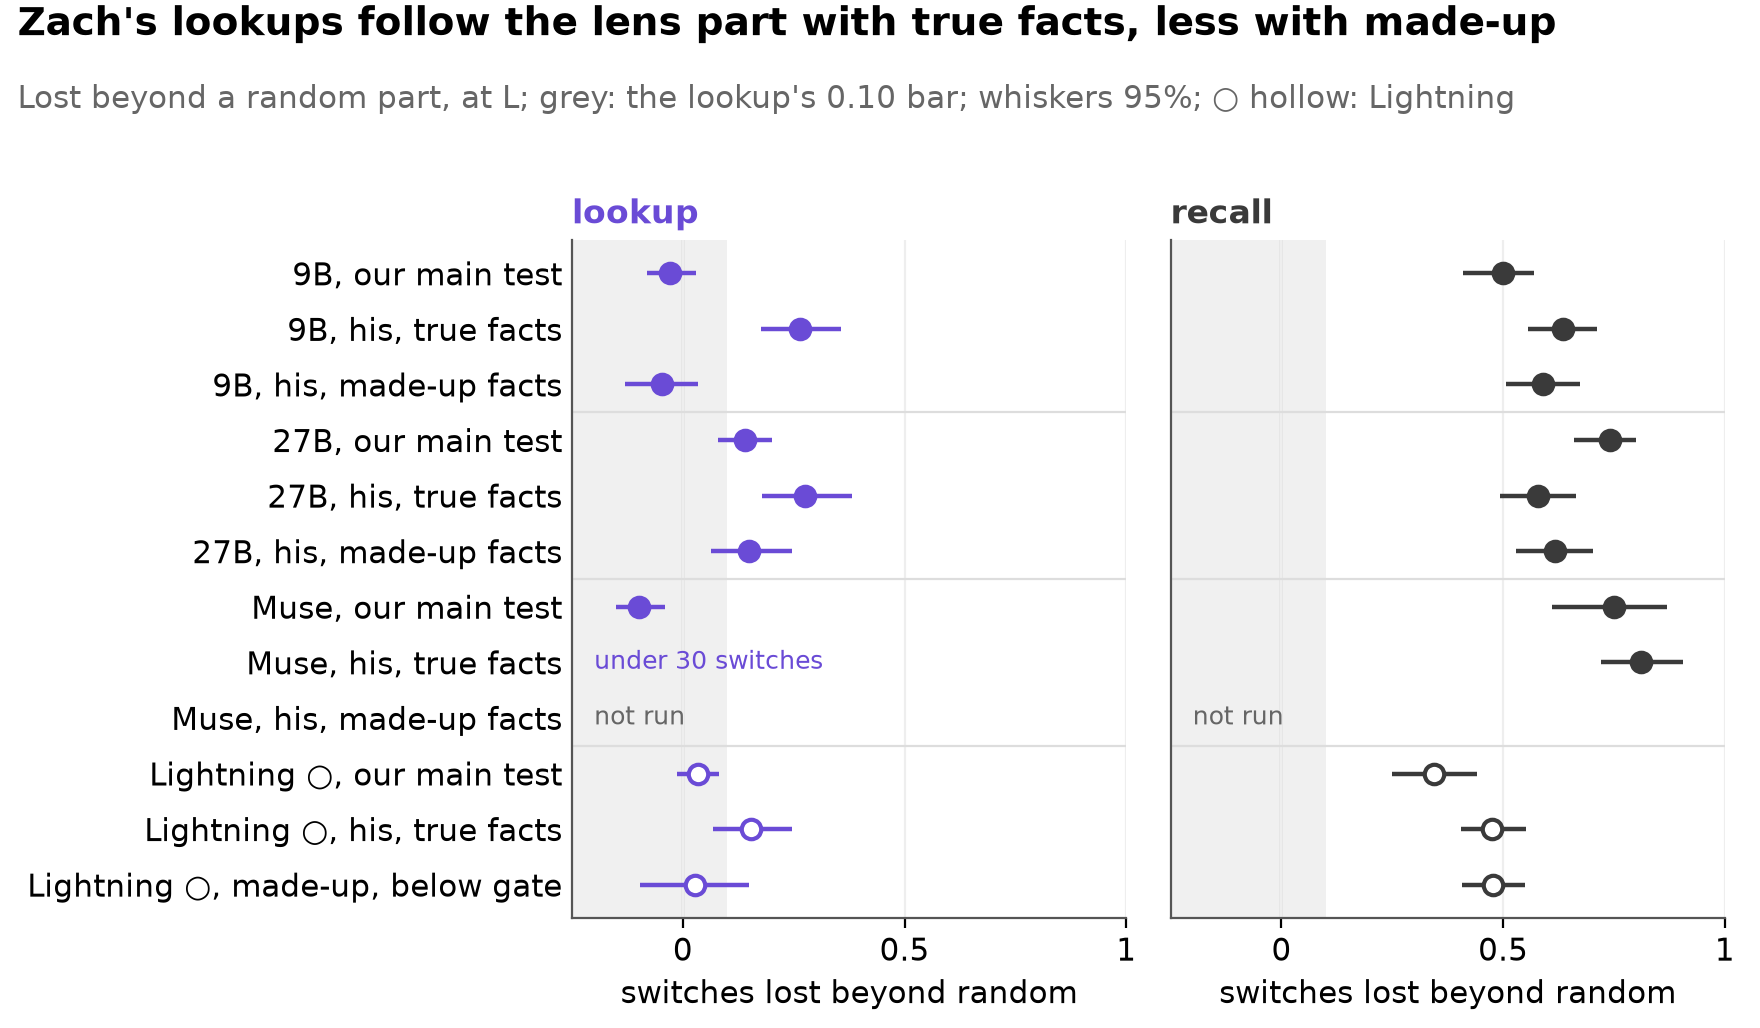
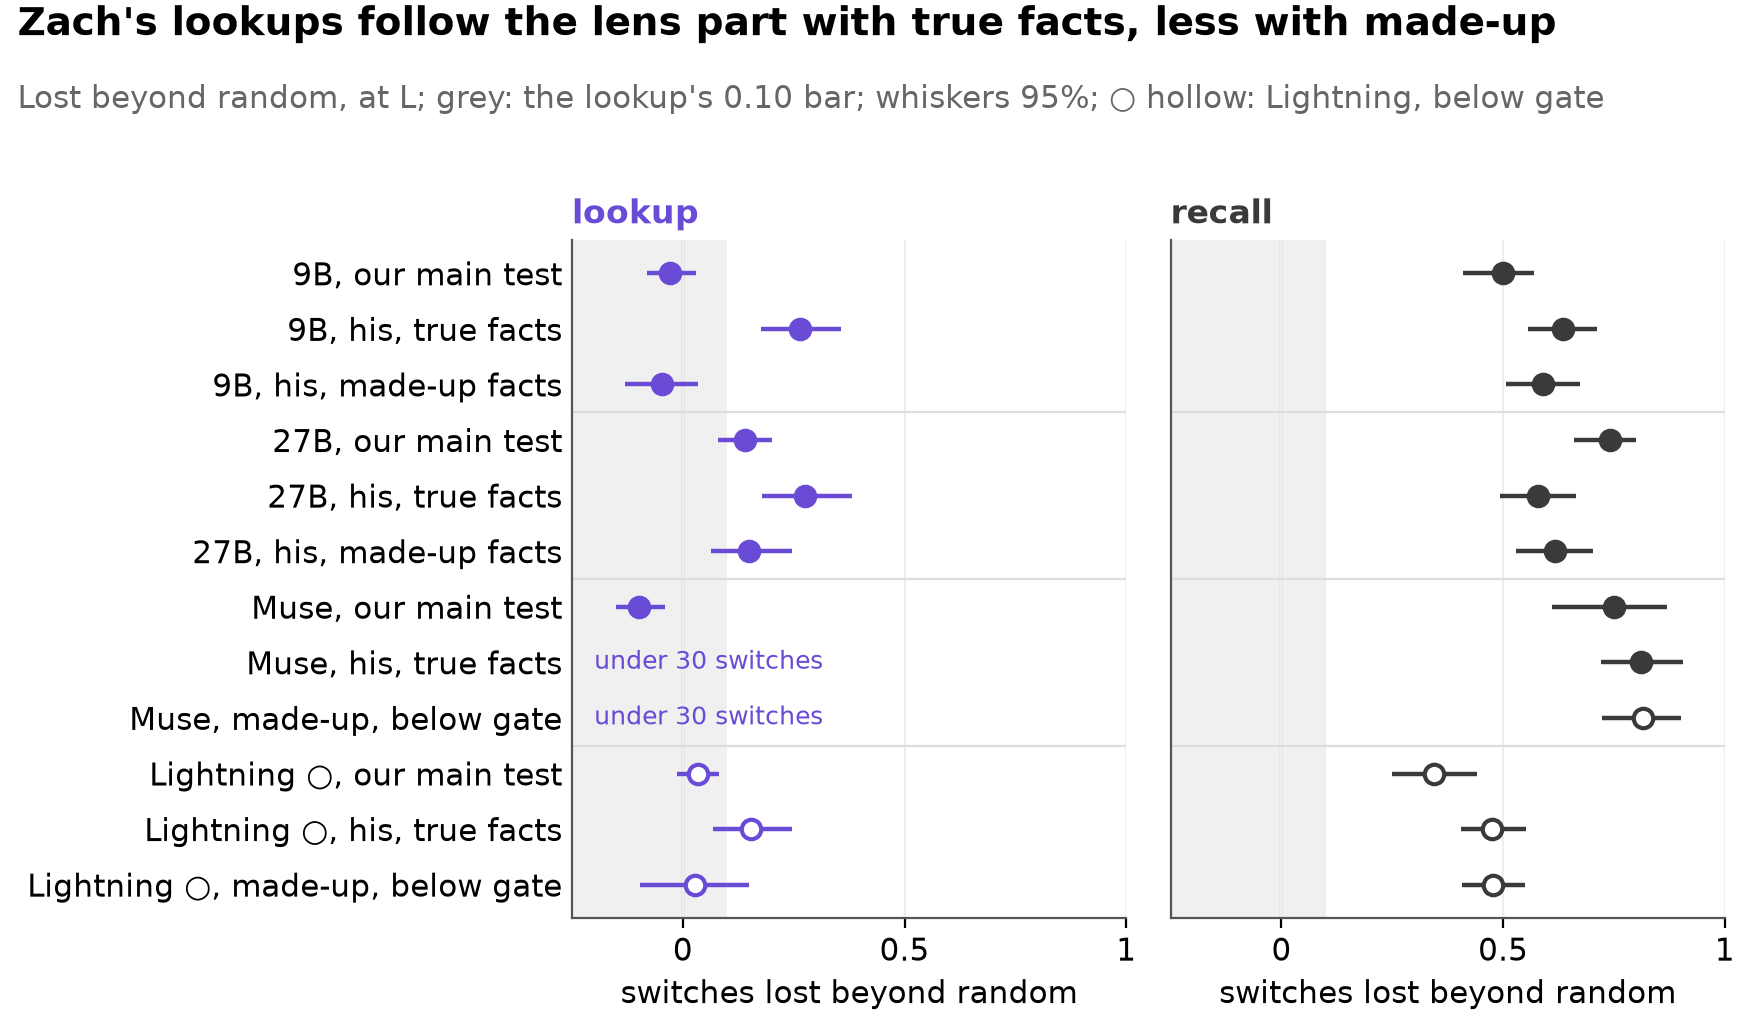
Ledger: Z1-P on Muse (744ad647) below gate, exploratory (hollow ○: lookup 0.04, recall 0.81, gap 0.77 at L26; not tested, gate 0.781 < 0.80) in the Z1 card and the ledger_zach_named figure (Muse's made-up row hollow, labelled below gate; its lookup under 30 switches)

diff --git a/scripts/ledger_figures.py b/scripts/ledger_figures.py
@@ -405,12 +405,18 @@ Z1_L = R / "x50_zach" / "x52_z1-20261029T013035Z" / "z1.json"  # Lightning's cov
 # Z1-P: Zach's named passages with made-up facts (Dan's morning brief, 29 Oct); Lightning's missed its gate
 Z1P = {"qwen3.5-9b": R / "x50_zach" / "x52_z1p-20261029T081112Z" / "z1p.json",
        "qwen3.6-27b": R / "x50_zach" / "x52_z1p-20261029T081323Z" / "z1p.json",
-       "nemotron-3.5-lightning": R / "x50_zach" / "x52_z1p-20261029T080731Z" / "z1p.json"}  # fmt: skip
+       "nemotron-3.5-lightning": R / "x50_zach" / "x52_z1p-20261029T080731Z" / "z1p.json",
+       "muse-glimmer-30b": R / "x50_zach" / "x52_z1p-20261029T094820Z" / "z1p.json"}  # fmt: skip
 
 
 def _zach_cell(path: Path, target: str, reader: str) -> dict:
     (m,) = [m for m in load(path)["models"] if m["target"] == target]
     return m["layer_results"][str(m["layers"][0])][reader]
+
+
+def _below_gate(path: Path, target: str) -> bool:
+    (m,) = [m for m in load(path)["models"] if m["target"] == target]
+    return str(m.get("status", "")).startswith("not tested")
 
 
 def zach_named(plt) -> str:
@@ -429,11 +435,12 @@ def zach_named(plt) -> str:
     h = fig.get_figheight()
     fig.subplots_adjust(left=0.325, right=0.98, top=1 - 1.2 / h, bottom=0.55 / h, wspace=0.08)
     S.title(fig, "Zach's lookups follow the lens part with true facts, less with made-up",
-            "Lost beyond a random part, at L; grey: the lookup's 0.10 bar; whiskers 95%; ○ hollow: Lightning")  # fmt: skip
+            "Lost beyond random, at L; grey: the lookup's 0.10 bar; whiskers 95%; ○ hollow: Lightning, below gate")  # fmt: skip
     labels = []
     for t in models:
         tag = SHORT[t] + (" ○" if t == lt else "")
-        labels += [f"{tag}, {lab}" if not (t == lt and k == "made") else f"{tag}, made-up, below gate" for lab, k in sets]
+        below = t in Z1P and _below_gate(Z1P[t], t)
+        labels += [f"{tag}, {lab}" if not (below and k == "made") else f"{tag}, made-up, below gate" for lab, k in sets]
     for ax, (reader, col, key, pp) in zip(axes, (("lookup", LOOKUP, "lk", "PP"), ("recall", INK, "rc", "PM")),
                                           strict=True):  # fmt: skip
         ax.set_title(reader, fontsize=12, weight="bold", loc="left", color=col)
@@ -451,8 +458,9 @@ def zach_named(plt) -> str:
                     ax.text(-0.2, y0 - j, "not run", color=S.COL["muted"], va="center", fontsize=S.LABEL_PT - 1)
                     continue
                 cell = _zach_cell(path, t, reader)
+                below = k == "made" and _below_gate(path, t)
                 if cell["valid"]:
-                    whisker(ax, y0 - j, cell["excess"], col, hollow=hollow)
+                    whisker(ax, y0 - j, cell["excess"], col, hollow=hollow or below)
                 else:  # under 30 switches under the whole change: left out (the README figures' convention)
                     ax.text(-0.2, y0 - j, "under 30 switches", color=col, va="center", fontsize=S.LABEL_PT - 1)
                 what = "true facts" if k == "true" else "made-up facts"

diff --git a/docs/depth/EXPERIMENTS.md b/docs/depth/EXPERIMENTS.md
@@ -1108,11 +1108,11 @@ New in this ledger:
 
 - **Question.** On Zach's passages with a named bridge, does the lookup let go of the lens part while the recall follows it?
 - **Why we asked.** Our scenes are short lists; his passages scatter the facts in prose.
-- **Data.** His passages (named bridge; the lookup's passage states the true final fact, the recall's leaves it out): 200 per model (Lightning at L14, which decides, and L27 beside). Z1-P: his passages with made-up facts, 200 each on the 9B, 27B and Lightning.
+- **Data.** His passages (named bridge; the lookup's passage states the true final fact, the recall's leaves it out): 200 per model (Lightning at L14, which decides, and L27 beside). Z1-P: his passages with made-up facts, 200 each on the 9B, 27B, Muse (L26) and Lightning.
 - **Method.** The conflict test at the bridge name's last token at L: without the lens part, against without a random part; each reader gets its own change.
 
 ![On Zach's named passages the lookup follows the lens part too](../../figures/ledger/ledger_zach_named.png)
-*Switches lost without the lens part beyond a random part, per reader and model: our main test, Zach's named passages with true facts and with made-up facts (200 each; Muse's made-up facts not run), all at L; grey band: the lookup's 0.10 bar; whiskers 95%; Lightning hollow (its gate set after the 60-scene pre-check; its made-up-fact run below that run's gate, descriptive only).*
+*Switches lost without the lens part beyond a random part, per reader and model: our main test, Zach's named passages with true facts and with made-up facts (200 each), all at L; grey band: the lookup's 0.10 bar; whiskers 95%; Lightning hollow (its gate set after the 60-scene pre-check). Models: 9B, 27B (made-up facts at gate); Muse, Lightning (made-up facts below gate: hollow ○, descriptive only; Muse's lookup there under 30 switches).*
 
 - **Rule, fixed in advance.** "Per model: gap >= 0.3 and lookup extra loss <= 0.10 → the split holds on his passages; lookup >= 0.20 → the lookup follows the lens here; else in between. The order pattern replicates if the lookup's switch under the whole change is >= 2x higher fact-first than fact-after (both CIs)." Lightning: a coverage run on this rule, no prediction.
 
@@ -1124,15 +1124,15 @@ New in this ledger:
   | recall: switches lost beyond a random part | 0.64 [0.56, 0.71]<!-- src: results/x50_zach/z1-20261028T161649Z/z1.md \| qwen35_9b_x50_z1 :: 0.64 [0.56, 0.71] --> | 0.58 [0.49, 0.66]<!-- src: results/x50_zach/z1-20261028T161649Z/z1.md \| x50_z1_27b :: 0.58 [0.49, 0.66] --> | 0.81 [0.72, 0.90]<!-- src: results/x50_zach/z1-20261028T161649Z/z1.md \| muse30_x50_z1 :: 0.81 [0.72, 0.90] --> | 0.48 [0.40, 0.55]<!-- src: results/x50_zach/x52_z1-20261029T013035Z/z1.md \| nem35l_x52_z1 :: 0.15 [0.07, 0.25] :: 0.48 [0.40, 0.55] --> |
   | lookups switched, fact-first / fact-after | 0.78 [0.68, 0.86]<!-- src: results/x50_zach/z1-20261028T161649Z/z1.md \| L12 order :: 0.78 [0.68, 0.86] --> / 0.36 [0.27, 0.46]<!-- src: results/x50_zach/z1-20261028T161649Z/z1.md \| L12 order :: 0.36 [0.27, 0.46] --> | 0.67 [0.57, 0.76]<!-- src: results/x50_zach/z1-20261028T161649Z/z1.md \| L32 order :: 0.67 [0.57, 0.76] --> / 0.11 [0.05, 0.17]<!-- src: results/x50_zach/z1-20261028T161649Z/z1.md \| L32 order :: 0.11 [0.05, 0.17] --> | 0.20 [0.12, 0.29]<!-- src: results/x50_zach/z1-20261028T161649Z/z1.md \| L26 order :: 0.20 [0.12, 0.29] --> / 0.05 [0.01, 0.10]<!-- src: results/x50_zach/z1-20261028T161649Z/z1.md \| L26 order :: 0.05 [0.01, 0.10] --> | 0.71 [0.61, 0.80]<!-- src: results/x50_zach/x52_z1-20261029T013035Z/z1.md \| L14 order :: 0.71 [0.61, 0.80] --> / 0.38 [0.27, 0.49]<!-- src: results/x50_zach/x52_z1-20261029T013035Z/z1.md \| L14 order :: 0.38 [0.27, 0.49] --> |
   | the rule | **the lookup follows the lens here** | **the lookup follows the lens here** | **the lookup follows the lens here** | **in between<!-- src: results/x50_zach/x52_z1-20261029T013035Z/z1.md \| nem35l_x52_z1 :: 0.32 [0.21, 0.44] :: in between -->** (gap 0.32 [0.21, 0.44]<!-- src: results/x50_zach/x52_z1-20261029T013035Z/z1.md \| nem35l_x52_z1 :: 0.32 [0.21, 0.44] -->; no prediction) |
-  | made-up facts (Z1-P): lookup, switches lost beyond a random part | -0.05 [-0.13, 0.03]<!-- src: results/x50_zach/x52_z1p-20261029T081112Z/z1p.md \| qwen35_9b_x52_z1p :: -0.05 [-0.13, 0.03] --> | 0.15 [0.06, 0.25]<!-- src: results/x50_zach/x52_z1p-20261029T081323Z/z1p.md \| x52_z1p_27b :: 0.15 [0.06, 0.25] --> | not run | ○ 0.03 [-0.10, 0.15]<!-- src: results/x50_zach/x52_z1p-20261029T080731Z/z1p.md \| nem35l_x52_z1p :: 0.03 [-0.10, 0.15] --> |
-  | made-up facts: recall, the same | 0.59 [0.51, 0.67]<!-- src: results/x50_zach/x52_z1p-20261029T081112Z/z1p.md \| qwen35_9b_x52_z1p :: 0.59 [0.51, 0.67] --> | 0.62 [0.53, 0.70]<!-- src: results/x50_zach/x52_z1p-20261029T081323Z/z1p.md \| x52_z1p_27b :: 0.62 [0.53, 0.70] --> | | ○ 0.48 [0.41, 0.55]<!-- src: results/x50_zach/x52_z1p-20261029T080731Z/z1p.md \| nem35l_x52_z1p :: 0.48 [0.41, 0.55] --> |
-  | made-up facts: the gap | 0.64 [0.51, 0.76]<!-- src: results/x50_zach/x52_z1p-20261029T081112Z/z1p.md \| qwen35_9b_x52_z1p :: 0.64 [0.51, 0.76] --> | 0.47 [0.36, 0.58]<!-- src: results/x50_zach/x52_z1p-20261029T081323Z/z1p.md \| x52_z1p_27b :: 0.47 [0.36, 0.58] --> | | ○ 0.45 [0.30, 0.60]<!-- src: results/x50_zach/x52_z1p-20261029T080731Z/z1p.md \| nem35l_x52_z1p :: 0.45 [0.30, 0.60] --> |
-  | made-up facts: the rule | **the split holds on his passages<!-- src: results/x50_zach/x52_z1p-20261029T081112Z/z1p.md \| qwen35_9b_x52_z1p :: the split holds on his passages -->** | **in between<!-- src: results/x50_zach/x52_z1p-20261029T081323Z/z1p.md \| x52_z1p_27b :: in between -->** | | not tested (gate 0.794<!-- src: jobs/c3/batch52.yaml \| Z1-P on Lightning :: 0.794 --> < 0.80); numbers descriptive only |
+  | made-up facts (Z1-P): lookup, switches lost beyond a random part | -0.05 [-0.13, 0.03]<!-- src: results/x50_zach/x52_z1p-20261029T081112Z/z1p.md \| qwen35_9b_x52_z1p :: -0.05 [-0.13, 0.03] --> | 0.15 [0.06, 0.25]<!-- src: results/x50_zach/x52_z1p-20261029T081323Z/z1p.md \| x52_z1p_27b :: 0.15 [0.06, 0.25] --> | ○ 0.04 [0.00, 0.14]<!-- src: results/x50_zach/x52_z1p-20261029T094820Z/z1p.md \| muse30_x53_z1p :: 0.04 [0.00, 0.14] --> | ○ 0.03 [-0.10, 0.15]<!-- src: results/x50_zach/x52_z1p-20261029T080731Z/z1p.md \| nem35l_x52_z1p :: 0.03 [-0.10, 0.15] --> |
+  | made-up facts: recall, the same | 0.59 [0.51, 0.67]<!-- src: results/x50_zach/x52_z1p-20261029T081112Z/z1p.md \| qwen35_9b_x52_z1p :: 0.59 [0.51, 0.67] --> | 0.62 [0.53, 0.70]<!-- src: results/x50_zach/x52_z1p-20261029T081323Z/z1p.md \| x52_z1p_27b :: 0.62 [0.53, 0.70] --> | ○ 0.81 [0.72, 0.90]<!-- src: results/x50_zach/x52_z1p-20261029T094820Z/z1p.md \| muse30_x53_z1p :: 0.81 [0.72, 0.90] --> | ○ 0.48 [0.41, 0.55]<!-- src: results/x50_zach/x52_z1p-20261029T080731Z/z1p.md \| nem35l_x52_z1p :: 0.48 [0.41, 0.55] --> |
+  | made-up facts: the gap | 0.64 [0.51, 0.76]<!-- src: results/x50_zach/x52_z1p-20261029T081112Z/z1p.md \| qwen35_9b_x52_z1p :: 0.64 [0.51, 0.76] --> | 0.47 [0.36, 0.58]<!-- src: results/x50_zach/x52_z1p-20261029T081323Z/z1p.md \| x52_z1p_27b :: 0.47 [0.36, 0.58] --> | ○ 0.77 [0.63, 0.89]<!-- src: results/x50_zach/x52_z1p-20261029T094820Z/z1p.md \| muse30_x53_z1p :: 0.77 [0.63, 0.89] --> | ○ 0.45 [0.30, 0.60]<!-- src: results/x50_zach/x52_z1p-20261029T080731Z/z1p.md \| nem35l_x52_z1p :: 0.45 [0.30, 0.60] --> |
+  | made-up facts: the rule | **the split holds on his passages<!-- src: results/x50_zach/x52_z1p-20261029T081112Z/z1p.md \| qwen35_9b_x52_z1p :: the split holds on his passages -->** | **in between<!-- src: results/x50_zach/x52_z1p-20261029T081323Z/z1p.md \| x52_z1p_27b :: in between -->** | not tested (gate 0.781<!-- src: results/x50_zach/x52_z1p-20261029T094820Z/z1p.md \| 'K': 0.78125 :: 0.781 --> < 0.80); numbers descriptive only | not tested (gate 0.794<!-- src: jobs/c3/batch52.yaml \| Z1-P on Lightning :: 0.794 --> < 0.80); numbers descriptive only |
 
 - **Read.**
   - On his named-bridge passages the lookup follows the lens part too on the 9B and 27B; Muse's lookup switches too rarely to tell (see Flagged for Dan). The order pattern replicates on all three.
   - On Lightning at L14 the split is in between: the lookup loses more than the 0.10 bar but far less than the recall; its order pattern does not replicate (fact-first under twice fact-after).
-  - On his passages with made-up facts (Z1-P) the 9B's split holds and the 27B's is in between; Lightning missed the gate there, so its numbers are descriptive only.
+  - On his passages with made-up facts (Z1-P) the 9B's split holds and the 27B's is in between; Muse and Lightning missed the gate there, so their numbers are descriptive only.
 - **Caveats.**
   - His true-fact lookup passages (the first four rows) state facts the model may know; the made-up-fact rerun (Z1-P, Dan's morning brief, 29 Oct) ran on the 9B, 27B (L32) and Lightning (L14): coverage runs on the same rule, no prediction, 200 passages each; Muse not run.
   - Hollow ○: below the gate, numbers descriptive only, never in claims or grades (Dan, 09:15).
